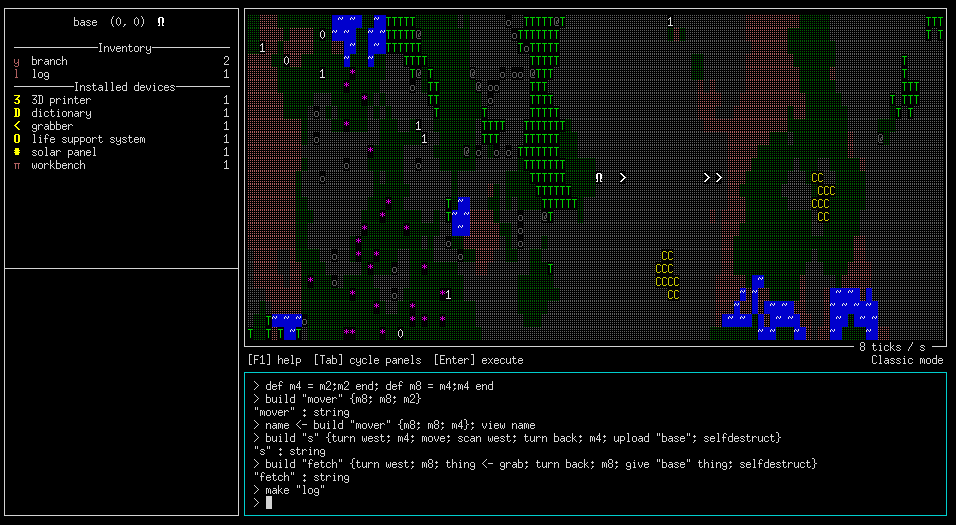
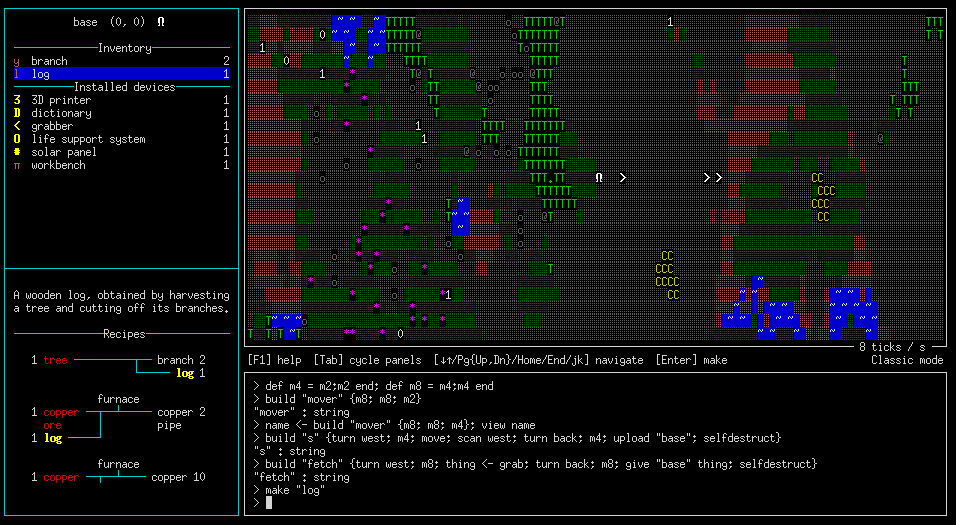
nicely formatted recipes with ASCII art (#127)
Draw nicely formatted recipes using ASCII art, showing inputs on the left, outputs on the right, and any other required entities at the top, and with the focused entity highlighted in one color, and missing or insufficient ingredients highlighted in a different color.  Thanks to Mark Goadrich for the idea!

Closes #122 .

diff --git a/TUTORIAL.md b/TUTORIAL.md
@@ -227,6 +227,11 @@ Let's build a robot to learn about those green `T` things to the west:
 ```
 build "s" {turn west; m4; move; scan west; turn back; m4; upload "base"; selfdestruct}
 ```
+The `turn` command causes a robot to turn, of course. It takes a
+direction as an argument, which can be either an absolute direction
+(`north`, `south`, `east`, or `west`) or a relative direction
+(`forward`, `back`, `left`, `right`, or `down`).
+
 Notice that the robot did not actually need to walk on top of a `T` to
 learn about it, since it could `scan west` to scan the cell one unit
 to the west (you can also `scan down` to scan the item underneath the
@@ -252,10 +257,7 @@ So those tree things look pretty useful.  Let's get one!
 ```
 build "fetch" {turn west; m8; thing <- grab; turn back; m8; give "base" thing; selfdestruct}
 ```
-The `turn` command causes a robot to turn, of course. It takes a
-direction as an argument, which can be either an absolute direction
-(`north`, `south`, `east`, or `west`) or a relative direction
-(`forward`, `back`, `left`, or `right`).  You can also see that the
+You can see that the
 `grab` command returns the name of the thing it grabbed, which is
 especially helpful when grabbing something unknown. (In this case we
 also could have just written `...; grab; ...; give "base" "tree"; ...`.)
@@ -278,12 +280,12 @@ necessary inputs.  In this case we can request to make either a
 `"log"` or a `"branch"`; it doesn't matter which, and we will get the
 same result either way.
 
-![](images/log.png)
-
 Note that since the `make` command takes a `string` as an argument,
 `"log"` has to go in double quotes (otherwise it would be a variable).
 You should now have two branches and a log in your inventory.  Take a
 look at them and see what recipes they enable!
+
+![](images/log.png)
 
 By this time you may also notice that the tree has grown back (whether
 it has finished growing back depends on how long you took to read the
